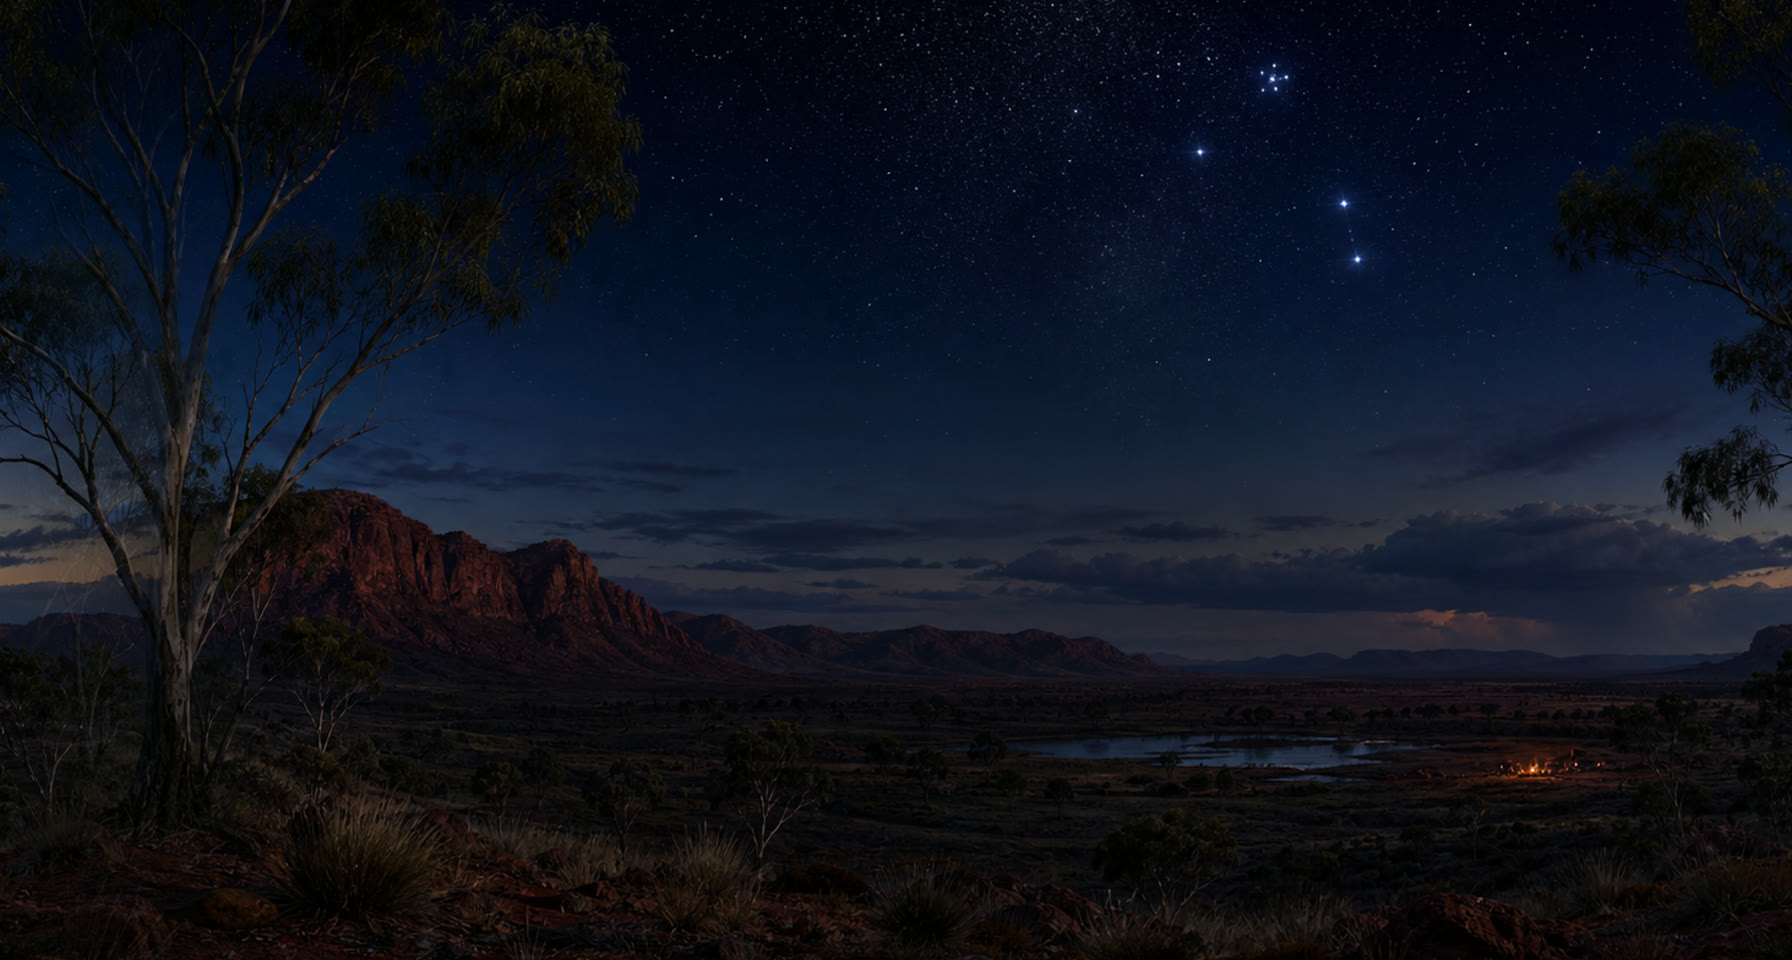
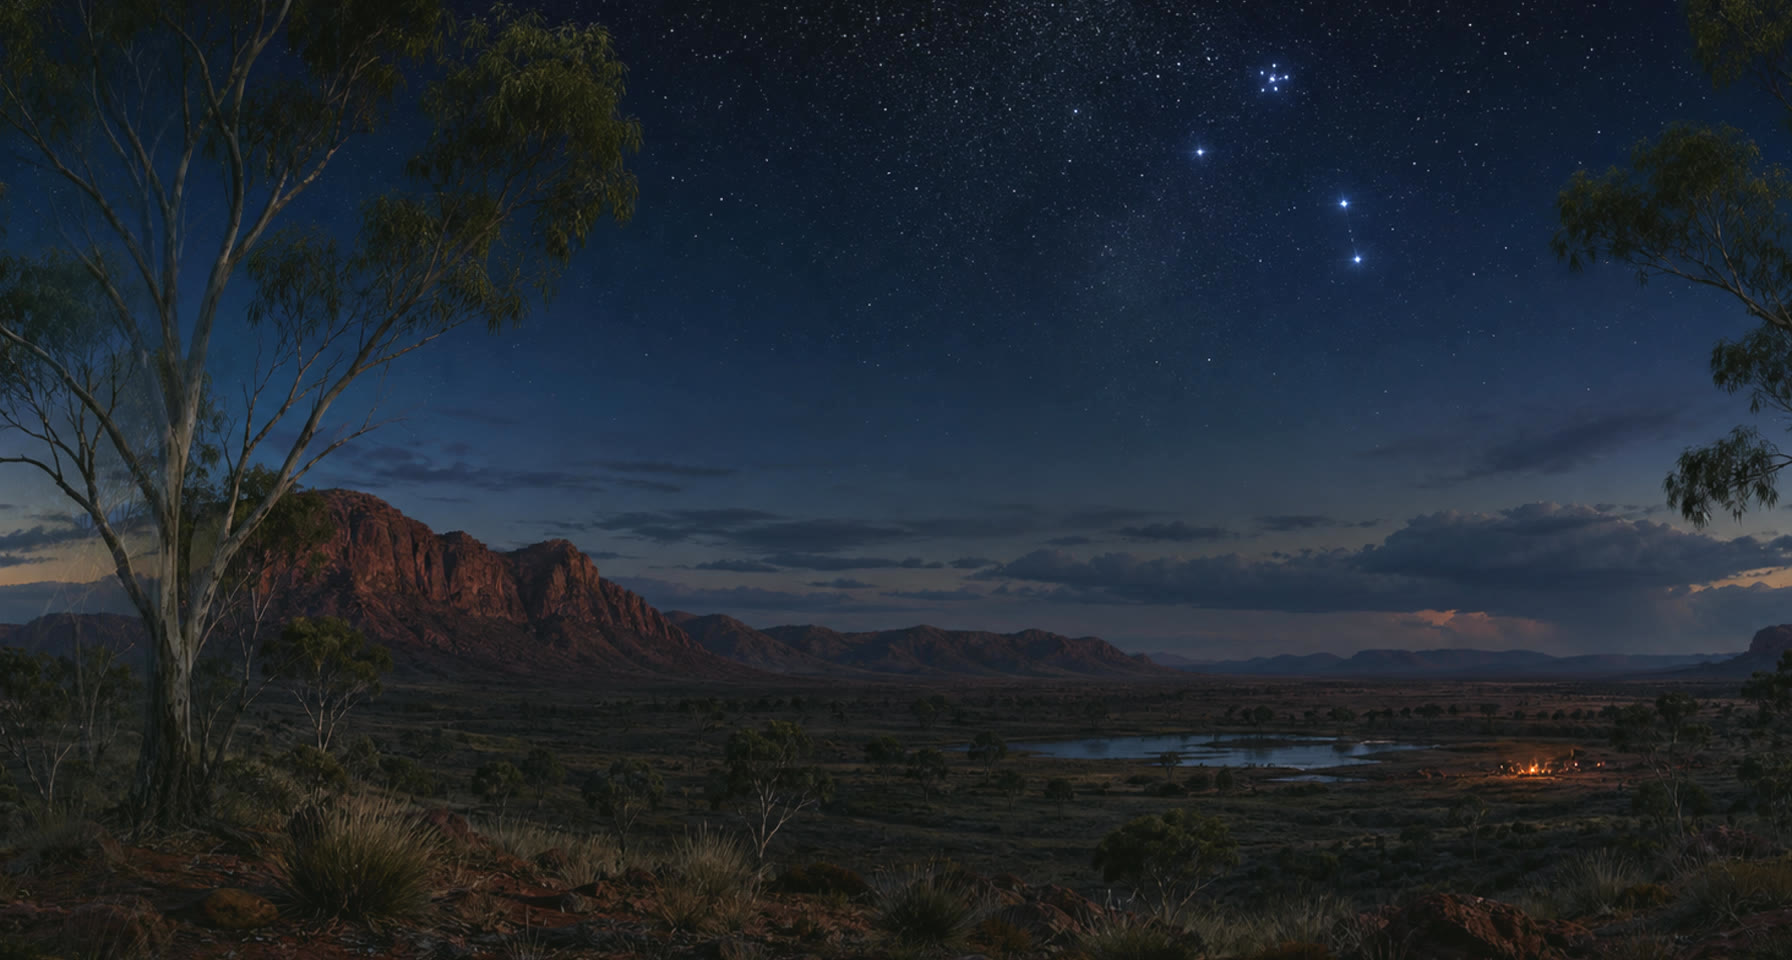
Brighten selected workspace backgrounds

diff --git a/public/js/background-manager.js b/public/js/background-manager.js
@@ -29,8 +29,8 @@ export const BACKGROUND_PRESETS = Object.freeze([
     image: '/assets/backgrounds/moonlit-forest.jpg',
     thumbnail: '/assets/backgrounds/thumbs/moonlit-forest.jpg',
     position: 'center center',
-    dim: 0.34,
-    terminalAlpha: 0.6,
+    dim: 0.2,
+    terminalAlpha: 0.54,
   }),
   Object.freeze({
     key: 'deep-halls',
@@ -55,12 +55,12 @@ export const BACKGROUND_PRESETS = Object.freeze([
   Object.freeze({
     key: 'neon-city',
     label: 'Neon City',
-    description: 'Rain and neon above a sleepless megacity.',
+    description: 'Brilliant neon towers and flying traffic above a sleepless megacity.',
     image: '/assets/backgrounds/neon-city.jpg',
     thumbnail: '/assets/backgrounds/thumbs/neon-city.jpg',
     position: 'center center',
-    dim: 0.24,
-    terminalAlpha: 0.56,
+    dim: 0.12,
+    terminalAlpha: 0.5,
   }),
   Object.freeze({
     key: 'arcane-observatory',
@@ -69,8 +69,8 @@ export const BACKGROUND_PRESETS = Object.freeze([
     image: '/assets/backgrounds/arcane-observatory.jpg',
     thumbnail: '/assets/backgrounds/thumbs/arcane-observatory.jpg',
     position: 'center center',
-    dim: 0.32,
-    terminalAlpha: 0.6,
+    dim: 0.18,
+    terminalAlpha: 0.52,
   }),
   Object.freeze({
     key: 'berserker-hold',
@@ -89,8 +89,8 @@ export const BACKGROUND_PRESETS = Object.freeze([
     image: '/assets/backgrounds/outback-night.jpg',
     thumbnail: '/assets/backgrounds/thumbs/outback-night.jpg',
     position: 'center center',
-    dim: 0.28,
-    terminalAlpha: 0.58,
+    dim: 0.16,
+    terminalAlpha: 0.52,
   }),
 ]);
 
